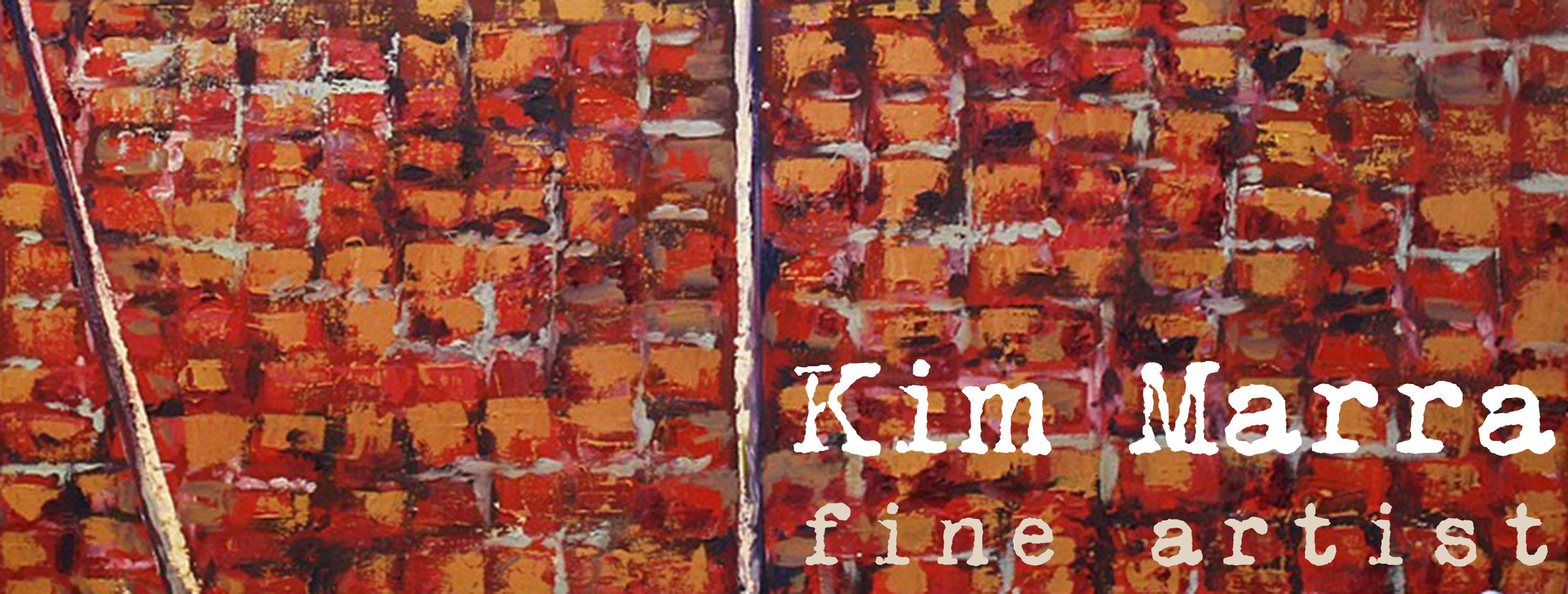
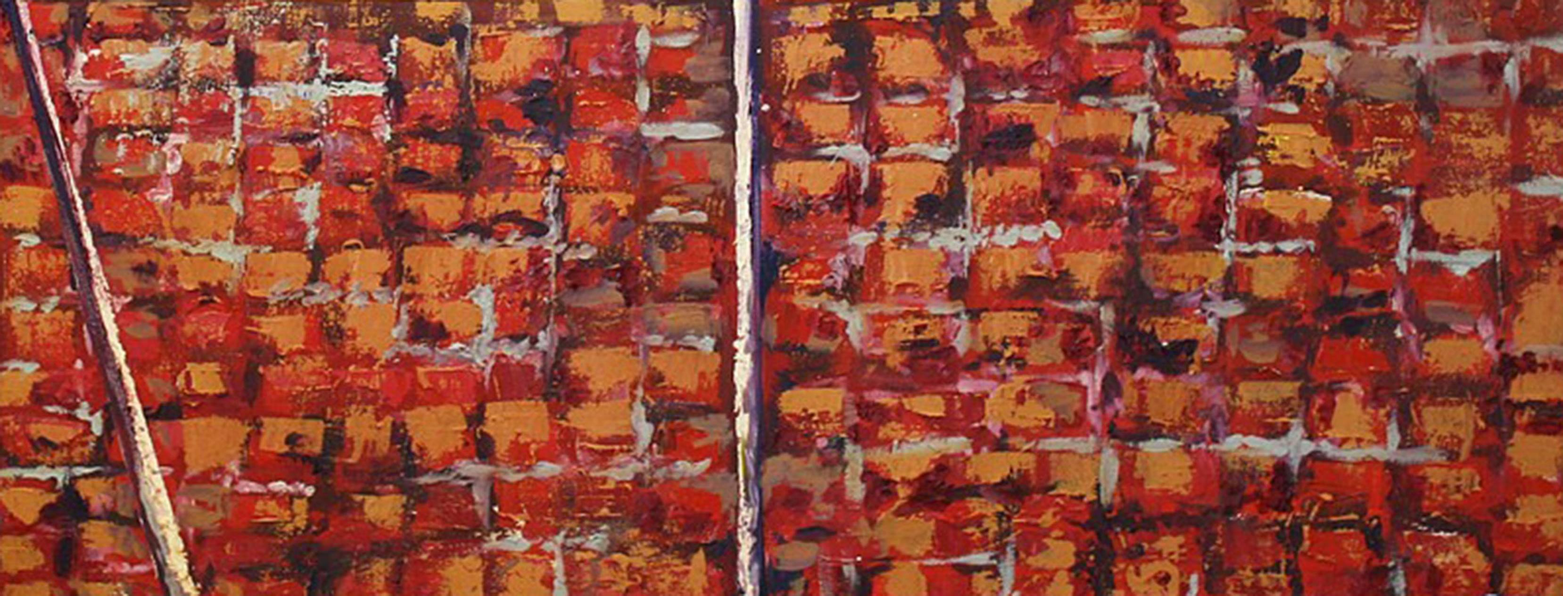
add new blank brick header and fix spacing of header button

diff --git a/css/application.css b/css/application.css
@@ -111,6 +111,7 @@ header .header-content .header-content-inner p {
 
 #header-button {
   margin-top: 4em;
+  margin-left: 20em;
   padding: 1em 2em 1em 2em;
   font-family: 'Inconsolata', monospace;
 }
@@ -118,6 +119,7 @@ header .header-content .header-content-inner p {
 @media ( max-width: 991px ) {
   #header-button {
     margin-top: 10em;
+    margin-left: 0em;
   }
   header .header-content .header-content-inner .main-name {
     margin-left: 0em;
@@ -127,6 +129,7 @@ header .header-content .header-content-inner p {
 @media ( max-width: 736px ) {
   #header-button {
     margin-top: 4em;
+    margin-left: 0em;
   }
   header .header-content .header-content-inner .main-name {
     margin-left: 0em;
@@ -136,6 +139,7 @@ header .header-content .header-content-inner p {
 @media ( max-width: 667px ) {
    #header-button {
     margin-top: 2.5em;
+    margin-left: 0em;
   }
   header .header-content .header-content-inner .main-name {
     margin-left: 0em;
@@ -145,6 +149,15 @@ header .header-content .header-content-inner p {
 @media ( max-width: 568px ) {
   #header-button {
     margin-top: -1em;
+  }
+  header .header-content .header-content-inner .main-name {
+    margin-left: 0em;
+  }
+}
+
+@media ( max-width: 400px ) {
+  #header-button {
+    margin-top: 2em;
   }
   header .header-content .header-content-inner .main-name {
     margin-left: 0em;
@@ -376,6 +389,7 @@ header .header-content .header-content-inner p {
 .divider {
   font-weight: 700;
   color: #882525;
+  font-style: normal;
 }
 
 @media (max-width: 1500px) {
